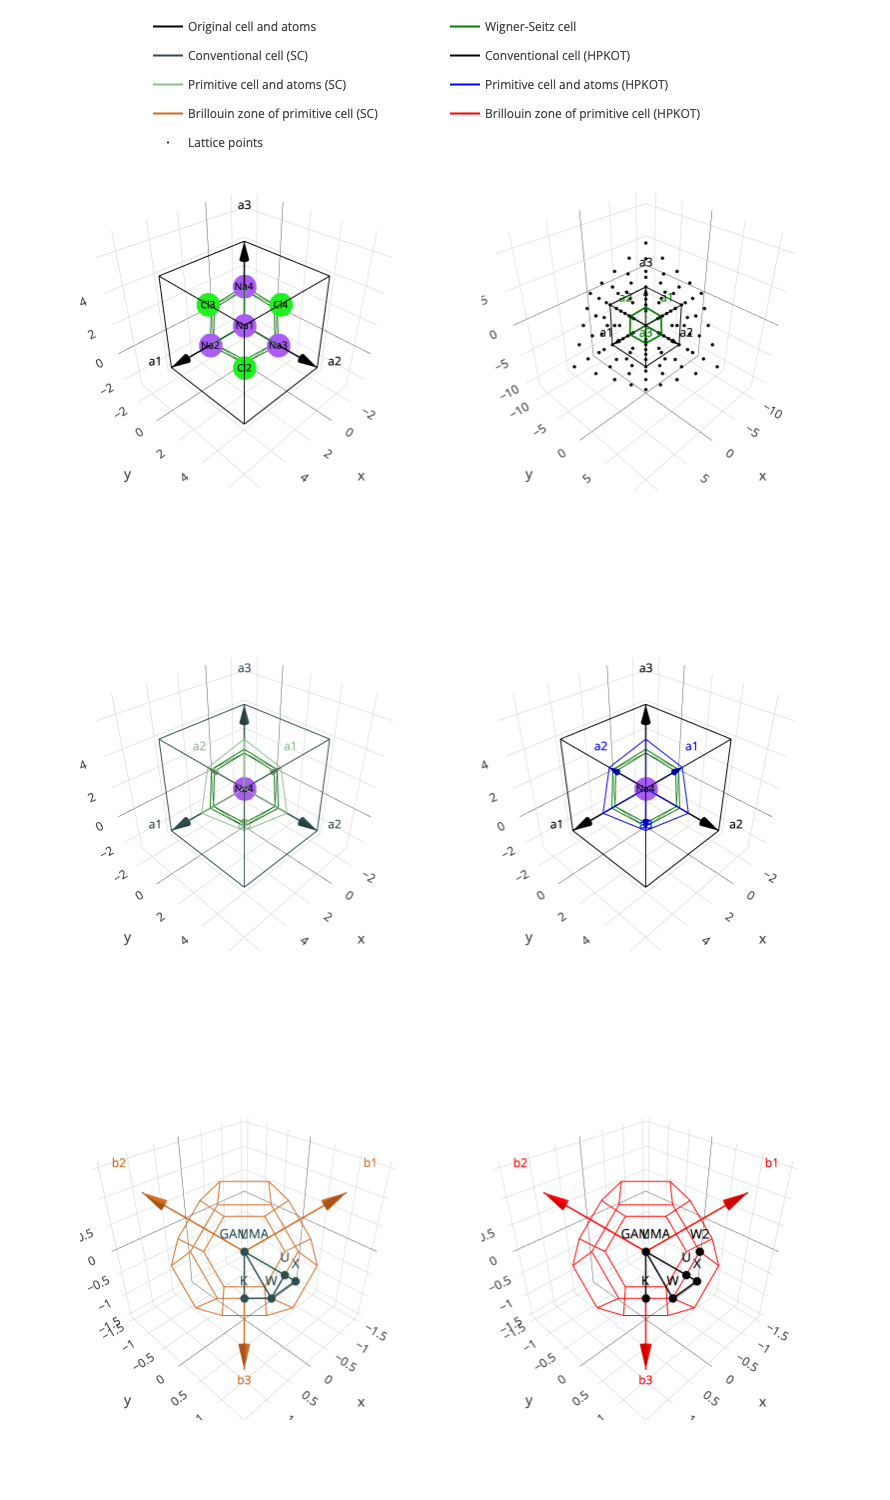
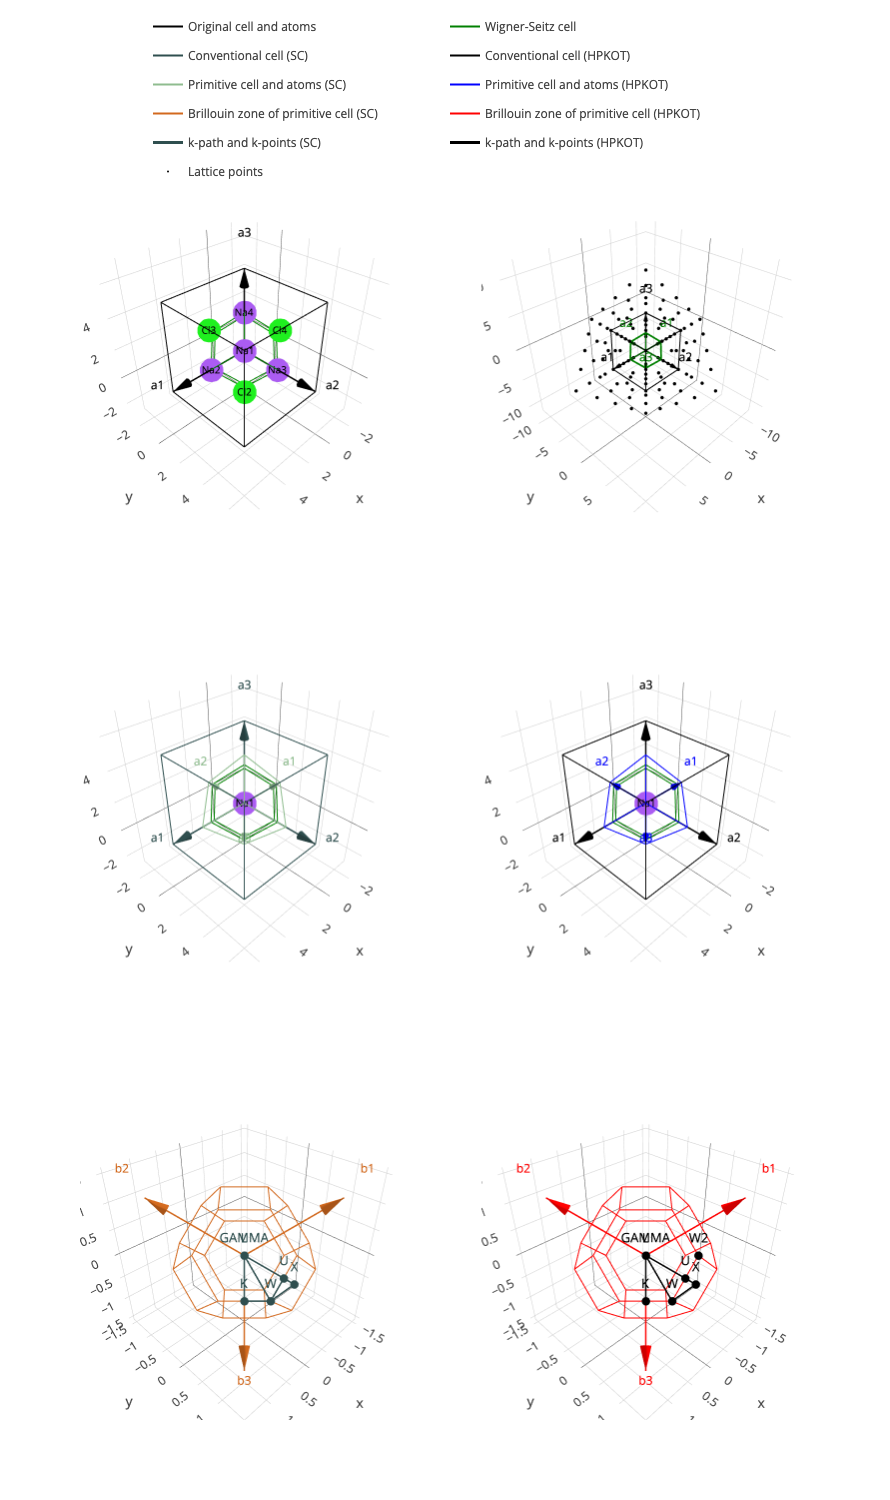
Improve name choice for primitive atoms

diff --git a/src/wulfric/crystal/_primitive.py b/src/wulfric/crystal/_primitive.py
@@ -291,9 +291,10 @@ def get_primitive(cell, atoms, convention="HPKOT", spglib_data=None):
     prim_atoms = dict(positions=prim_positions)
 
     # Get mapping from original atoms to primitive ones through types
-    types_mapping = {
-        type_index: index for index, type_index in enumerate(spglib_data.original_types)
-    }
+    types_mapping = {}
+    for index, type_index in enumerate(spglib_data.original_types):
+        if type_index not in types_mapping:
+            types_mapping[type_index] = index
 
     # Populate primitive_atoms with all keys that have been defined in the original atoms.
     for key in atoms: